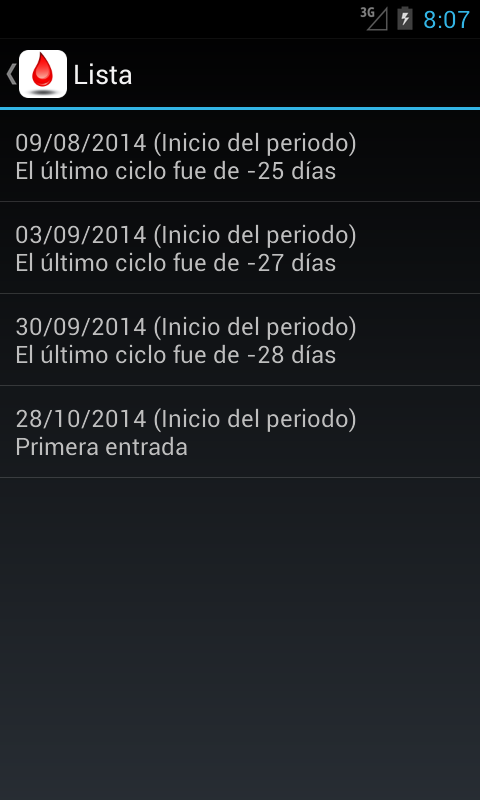
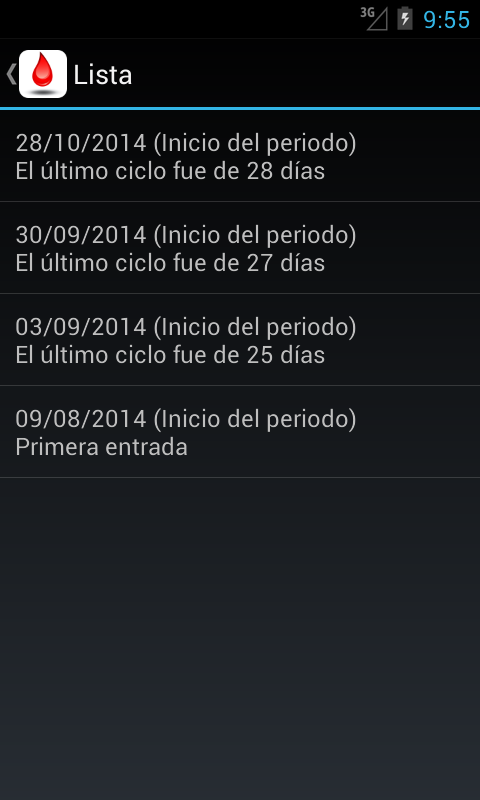
Reverted database sort option, so the list of entries will be displayed properly again.

diff --git a/src/de/arnowelzel/android/periodical/PeriodicalDatabase.java b/src/de/arnowelzel/android/periodical/PeriodicalDatabase.java
@@ -336,7 +336,7 @@ public class PeriodicalDatabase {
     }
 
     /* Load data without calculating anything */
-    void loadRawData() {
+    void loadRawData(boolean sortAscending) {
         DayEntry entry;
 
         // Clean up existing data
@@ -344,6 +344,7 @@ public class PeriodicalDatabase {
 
         // Get all entries from the database
         String statement = "select eventtype, eventdate from data order by eventdate";
+        if (!sortAscending) statement += " desc";        
         Cursor result = db.rawQuery(statement, null);
         while (result.moveToNext()) {
             int eventtype = result.getInt(0);

diff --git a/src/de/arnowelzel/android/periodical/ListActivity.java b/src/de/arnowelzel/android/periodical/ListActivity.java
@@ -47,7 +47,7 @@ public class ListActivity extends android.app.ListActivity {
 
         // Set up database and string array for the list
         dbMain = new PeriodicalDatabase(context);
-        dbMain.loadRawData();
+        dbMain.loadRawData(false);
 
         String[] entries = new String[dbMain.dayEntries.size()];
         java.text.DateFormat dateFormat = android.text.format.DateFormat
